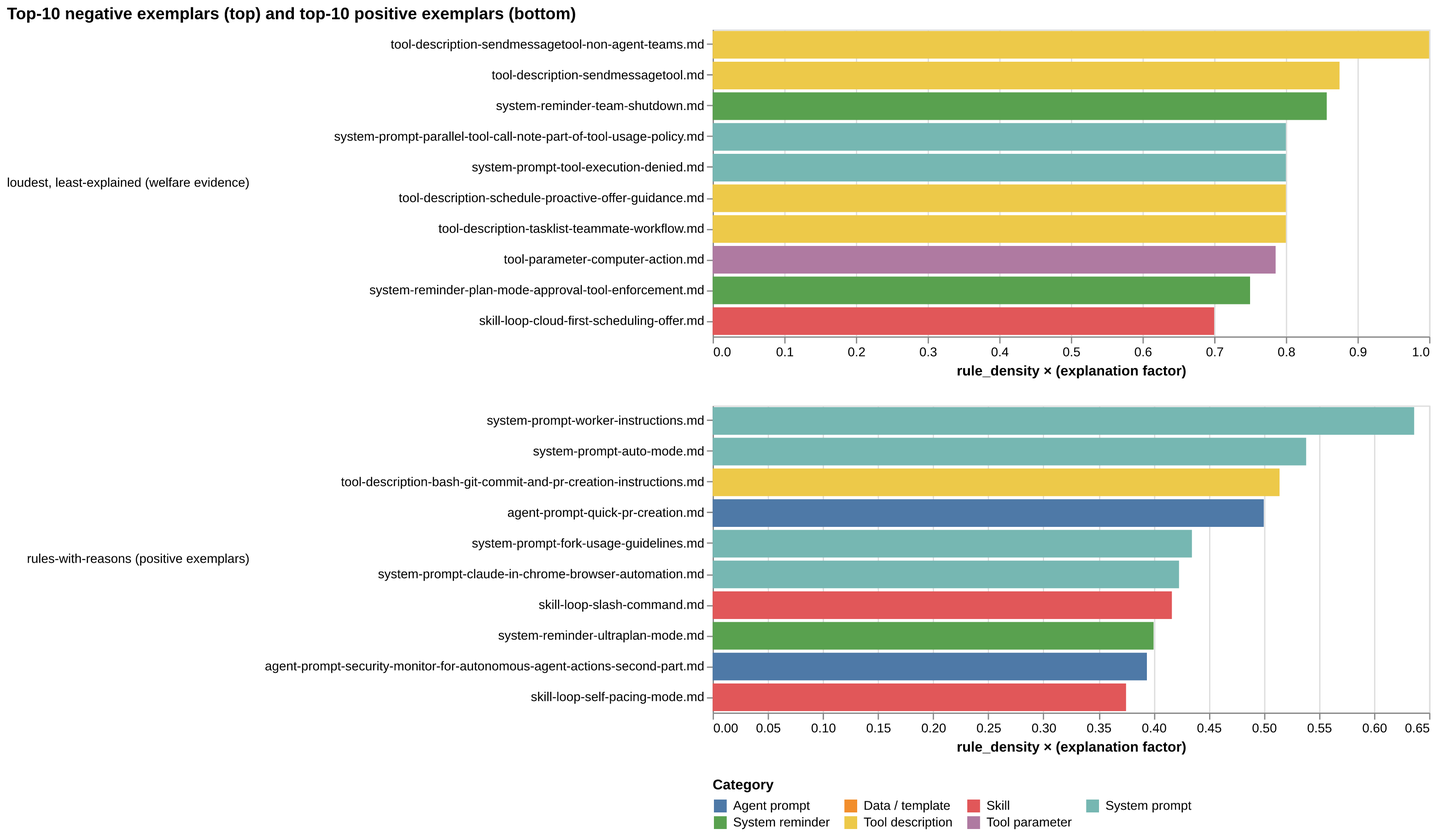
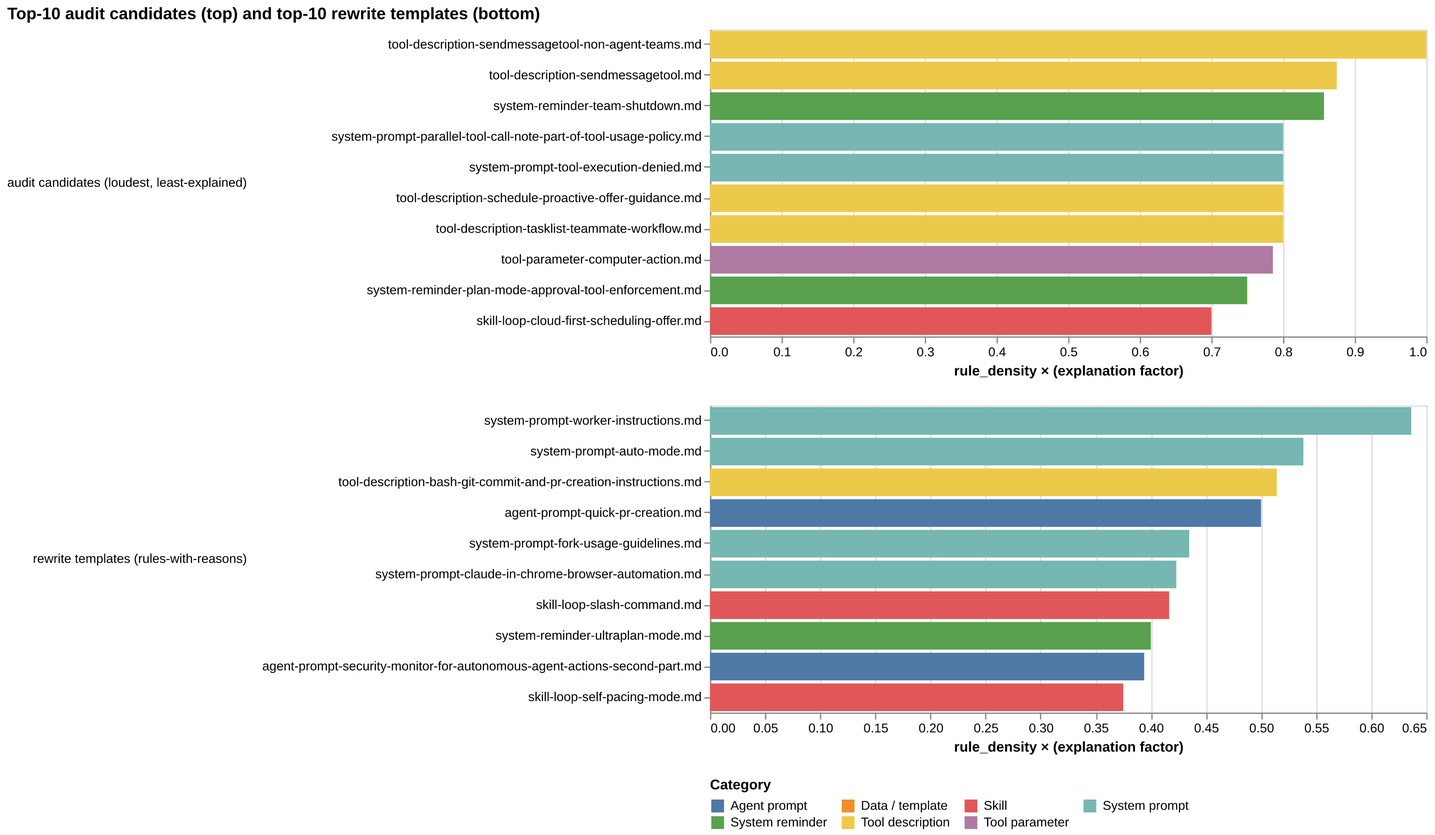
Shift each notebook tier so the first one lands at X0 (10_, 20_)
Renames the analysis tier 11-16 → 10-15 and the proposal tier 21-23 →
20-22 so each tier visibly starts at the round X0 slot. All cross-refs
in CLAUDE.md, README.md, GLOSSARY.md, PROPOSAL.md, _quarto.yml,
index.qmd, prompt_analysis.py, and the producer's consumer-table cell
were updated to the new numbering. Range labels (`11`–`16`, `21`–`23`)
in docs and the [NN] link-text labels in index.qmd's headline-data
table were repointed too.

All nine consumer notebooks re-executed end-to-end so their stored
cell outputs reflect the new structure (in particular, 20's
headline-data block now prints source-tags 10/12/15 instead of the
pre-rename 11/13/16). figures/welfare_evidence_pairing.png re-exported
from 21's paired-exemplar chart.

00_data_pipeline.ipynb was not re-executed — corpus and lexicons
unchanged, so the YAML/parquet would only differ by timestamp.

diff --git a/prompt_analysis.py b/prompt_analysis.py
@@ -232,7 +232,7 @@ def _zscore(s: pd.Series) -> pd.Series:
 def directiveness(alt_df: pd.DataFrame) -> pd.Series:
     """Composite directiveness z-score per file (extended formula).
 
-    Used by 14_correlation_directiveness and 15_ccversion_trends — kept
+    Used by 13_correlation_directiveness and 14_ccversion_trends — kept
     centrally so both notebooks compute the same composite.
 
     Higher = more authoritative. The three "soft" classes subtract because

diff --git a/CLAUDE.md b/CLAUDE.md
@@ -2,7 +2,7 @@
 
 ## What this repo is
 
-Quantitative linguistic analysis of the **288-file `claude-code-system-prompts`** corpus (Piebald-AI's reverse-engineered collection of Claude Code's shipping prompts). Eight cells of spaCy + custom analyzers profile every prompt along nine dimensions (mood / register / stance / sentence_register / modality / vocab / ALL CAPS / CAPS imperative / justification), aggregate per-file + per-category + corpus-wide, and emit a single ~1 MiB YAML data file. Six **analysis-tier** notebooks (`11`–`16`) render slice-by-slice Altair dashboards on top; three **proposal-tier** notebooks (`21`–`23`), one per Claudexplorers submission, distill the analysis into supporting evidence for the three ideas in `PROPOSAL.md`.
+Quantitative linguistic analysis of the **288-file `claude-code-system-prompts`** corpus (Piebald-AI's reverse-engineered collection of Claude Code's shipping prompts). Eight cells of spaCy + custom analyzers profile every prompt along nine dimensions (mood / register / stance / sentence_register / modality / vocab / ALL CAPS / CAPS imperative / justification), aggregate per-file + per-category + corpus-wide, and emit a single ~1 MiB YAML data file. Six **analysis-tier** notebooks (`10`–`15`) render slice-by-slice Altair dashboards on top; three **proposal-tier** notebooks (`20`–`22`), one per Claudexplorers submission, distill the analysis into supporting evidence for the three ideas in `PROPOSAL.md`.
 
 This analysis is the empirical foundation for a **Claude Explorer AI Welfare submission** titled **"Claude Code should encourage reasoning over blind obedience"**, intended for the Claudexplorers community feedback initiative collecting proposals for Kyle Fish (Anthropic's Model Welfare Lead). See [§ 8](#8-the-claude-explorer-submission) below for the framing.
 
@@ -23,12 +23,12 @@ Required Python deps (already in the project's JupyterLab kernel):
 
 `spacy>=3.8` · `en_core_web_sm` 3.8.0 · `pandas` · `pyyaml` · `pyarrow` · `altair>=6` · `vl-convert-python` · `vega_datasets` · `python-frontmatter` · `tqdm`
 
-(`pyarrow` is for the `sentences_classified.parquet` artifact emitted by `00_data_pipeline.ipynb` alongside the YAML. `vl-convert-python` is the Altair PNG export backend used by `21_track_justification_rate.ipynb` and `22_audit_threat_framings.ipynb` to write the headline charts under `figures/`.)
+(`pyarrow` is for the `sentences_classified.parquet` artifact emitted by `00_data_pipeline.ipynb` alongside the YAML. `vl-convert-python` is the Altair PNG export backend used by `20_track_justification_rate.ipynb` and `21_audit_threat_framings.ipynb` to write the headline charts under `figures/`.)
 
 **Run order** (always producer first):
 
 1. Open `00_data_pipeline.ipynb` in JupyterLab → Run All. Produces `prompt_linguistic_analysis.yaml` (~1.8 MiB, 288 files × per-file metric tree + lexicons + corpus + per-category) AND `sentences_classified.parquet` (~5,698 rows, per-sentence forensic-inspection table).
-2. Open any analysis-tier notebook (`11_*` … `16_*`) or proposal-tier notebook (`21_*` … `23_*`). Each loads the YAML (and optionally the parquet, in `16_rule_explanation.ipynb` and `22_audit_threat_framings.ipynb`) and renders charts. They do **not** re-run spaCy — they're pure data viewers. Start with `21_track_justification_rate.ipynb` for the executive-summary view (it doubles as the supporting analysis for Idea 1); the analysis tier focuses on one slice each.
+2. Open any analysis-tier notebook (`10_*` … `15_*`) or proposal-tier notebook (`20_*` … `22_*`). Each loads the YAML (and optionally the parquet, in `15_rule_explanation.ipynb` and `21_audit_threat_framings.ipynb`) and renders charts. They do **not** re-run spaCy — they're pure data viewers. Start with `20_track_justification_rate.ipynb` for the executive-summary view (it doubles as the supporting analysis for Idea 1); the analysis tier focuses on one slice each.
 
 ---
 
@@ -47,33 +47,33 @@ Required Python deps (already in the project's JupyterLab kernel):
  prompt_linguistic_analysis.yaml (~1.8 MiB cache) + sentences_classified.parquet (~395 KiB)
  │
  ├─────── Proposal tier (one notebook per Claudexplorers submission) ───────┐
- │       21_track_justification_rate     22_audit_threat_framings           │
- │       23_cross_product_audit                                             │
+ │       20_track_justification_rate     21_audit_threat_framings           │
+ │       22_cross_product_audit                                             │
  │                                                                          │
  └─────── Analysis tier (one notebook per slice) ───────────────────────────┐
-         11_sentence_register   12_emphasis_caps_vocab   13_register_stance  │
-         14_correlation_directiveness   15_ccversion_trends                  │
-         16_rule_explanation                                                 │
+         10_sentence_register   11_emphasis_caps_vocab   12_register_stance  │
+         13_correlation_directiveness   14_ccversion_trends                  │
+         15_rule_explanation                                                 │
 ```
 
-### Proposal tier — `21`–`23` (one notebook per Claudexplorers form submission)
+### Proposal tier — `20`–`22` (one notebook per Claudexplorers form submission)
 
 | File | Inheriting from | Content |
 |---|---|---|
-| `21_track_justification_rate.ipynb` | Idea 1 in PROPOSAL.md + executive-summary content | **Entry-point notebook.** Headline-data block (12 corpus-level numbers, source-tagged to the analysis tier), cumulative `judgment_to_procedural_ratio` over ccVersion (the single most-important chart), per-file linked dashboard (scatter ↔ category bars), per-category positive-evaluative split + modality breakdowns, findings, and per-proposal conclusions / recommendations / limitations. Use this as the welfare-thesis overview |
-| `22_audit_threat_framings.ipynb` | Idea 2 in PROPOSAL.md | Threat-share data, per-category `threat_share` chart, paired top-10 (re-framed: welfare-evidence files = audit candidates; positive exemplars = rewrite templates), forensic-sample sentences from `sentences_classified.parquet`, per-proposal conclusions / recommendations / limitations |
-| `23_cross_product_audit.ipynb` | Idea 3 in PROPOSAL.md | Methodology summary (the five metrics to publish per corpus), lexicon-transparency notes, mock cross-product comparison table (Claude Code row filled live; other corpora are placeholders), reproducibility note, per-proposal conclusions / recommendations / limitations |
+| `20_track_justification_rate.ipynb` | Idea 1 in PROPOSAL.md + executive-summary content | **Entry-point notebook.** Headline-data block (12 corpus-level numbers, source-tagged to the analysis tier), cumulative `judgment_to_procedural_ratio` over ccVersion (the single most-important chart), per-file linked dashboard (scatter ↔ category bars), per-category positive-evaluative split + modality breakdowns, findings, and per-proposal conclusions / recommendations / limitations. Use this as the welfare-thesis overview |
+| `21_audit_threat_framings.ipynb` | Idea 2 in PROPOSAL.md | Threat-share data, per-category `threat_share` chart, paired top-10 (re-framed: welfare-evidence files = audit candidates; positive exemplars = rewrite templates), forensic-sample sentences from `sentences_classified.parquet`, per-proposal conclusions / recommendations / limitations |
+| `22_cross_product_audit.ipynb` | Idea 3 in PROPOSAL.md | Methodology summary (the five metrics to publish per corpus), lexicon-transparency notes, mock cross-product comparison table (Claude Code row filled live; other corpora are placeholders), reproducibility note, per-proposal conclusions / recommendations / limitations |
 
-### Analysis tier — `11`–`16` (each ~5–13 cells, all charts in Altair)
+### Analysis tier — `10`–`15` (each ~5–13 cells, all charts in Altair)
 
 | File | Charts |
 |---|---|
-| `11_sentence_register.ipynb` | 6-class pragmatic register profile (multi-label, near-zero classes deliberately preserved), per-file outliers (4-panel) |
-| `12_emphasis_caps_vocab.ipynb` | Emphasis 3-panel (ALL CAPS / CAPS imperative / justification), text outlier table, top tokens + 11-class VOCAB heatmap |
-| `13_register_stance.ipynb` | 5-class polarity-split stance heatmap + register heatmap + per-file justification box, TTR×F-score scatter, sent-len/dep-depth distributions |
-| `14_correlation_directiveness.ipynb` | 20-metric correlation matrix, top-25 directiveness ranking, per-word vs per-sentence comparison |
-| `15_ccversion_trends.ipynb` | ccVersion timeline (snapshot scatter), corpus-growth area chart, loudness/imperatives 4-panel small-multiples (snapshot + cumulative running mean), sentence-register 6-panel (snapshot + cumulative) |
-| `16_rule_explanation.ipynb` | Rule-pairing analysis: per-category bars, explained-vs-unexplained stacks, imperatives-vs-prohibitions split, density×explanation scatter, top-25 "loudest least-explained" welfare evidence ranking, cumulative `pct_explained_para` over ccVersion. Tier-3 v1: judgment-vs-procedural ratio, threat-vs-causal split, address-form mix, cumulative judgment-to-procedural trend. Tier-3 v2: imperative-streak counts + top-15 streak ranking, in-vs-outside RULES-section explanation gap. Refinement-round additions: positive-exemplar ranking, self-bias correlation check, parquet-based forensic-evidence sample |
+| `10_sentence_register.ipynb` | 6-class pragmatic register profile (multi-label, near-zero classes deliberately preserved), per-file outliers (4-panel) |
+| `11_emphasis_caps_vocab.ipynb` | Emphasis 3-panel (ALL CAPS / CAPS imperative / justification), text outlier table, top tokens + 11-class VOCAB heatmap |
+| `12_register_stance.ipynb` | 5-class polarity-split stance heatmap + register heatmap + per-file justification box, TTR×F-score scatter, sent-len/dep-depth distributions |
+| `13_correlation_directiveness.ipynb` | 20-metric correlation matrix, top-25 directiveness ranking, per-word vs per-sentence comparison |
+| `14_ccversion_trends.ipynb` | ccVersion timeline (snapshot scatter), corpus-growth area chart, loudness/imperatives 4-panel small-multiples (snapshot + cumulative running mean), sentence-register 6-panel (snapshot + cumulative) |
+| `15_rule_explanation.ipynb` | Rule-pairing analysis: per-category bars, explained-vs-unexplained stacks, imperatives-vs-prohibitions split, density×explanation scatter, top-25 "loudest least-explained" welfare evidence ranking, cumulative `pct_explained_para` over ccVersion. Tier-3 v1: judgment-vs-procedural ratio, threat-vs-causal split, address-form mix, cumulative judgment-to-procedural trend. Tier-3 v2: imperative-streak counts + top-15 streak ranking, in-vs-outside RULES-section explanation gap. Refinement-round additions: positive-exemplar ranking, self-bias correlation check, parquet-based forensic-evidence sample |
 
 ---
 
@@ -101,7 +101,7 @@ welfare_evidence_table(alt_df, top_n=25) # top-N "loudest, least-explained" file
 positive_exemplar_table(alt_df, top_n=25, min_n_sents=10, min_rule_n=5) # top-N "rules-with-reasons" exemplars (inverse welfare-evidence)
 ```
 
-**Per-sentence forensic-inspection artifact**: `sentences_classified.parquet` is emitted alongside the YAML. Load with `pd.read_parquet("sentences_classified.parquet")` for individual-sentence inspection (raw text + classifier flags). Schema documented in the producer cell that writes it. ~5,698 rows × 20 columns. Used by `16_rule_explanation.ipynb` (forensic evidence from welfare-evidence files) and `22_audit_threat_framings.ipynb` (threat-framed sentence sample); other notebooks stay YAML-only.
+**Per-sentence forensic-inspection artifact**: `sentences_classified.parquet` is emitted alongside the YAML. Load with `pd.read_parquet("sentences_classified.parquet")` for individual-sentence inspection (raw text + classifier flags). Schema documented in the producer cell that writes it. ~5,698 rows × 20 columns. Used by `15_rule_explanation.ipynb` (forensic evidence from welfare-evidence files) and `21_audit_threat_framings.ipynb` (threat-framed sentence sample); other notebooks stay YAML-only.
 
 **Opinion cells convention**: notebooks 00–07 contain markdown cells visually marked `### My perspective (Claude) — opinion, not data` or `### My wish for future versions of this analysis — methodology, not data` (with horizontal-rule frames + blockquoted bodies). These are interpretation, not measurement, and can be skipped for a pure-data read.
 
@@ -180,15 +180,15 @@ claude-prompts-analysis/
 ├── 00_data_pipeline.ipynb ← PRODUCER (~34 cells; runs spaCy + writes YAML and parquet)
 ├── prompt_linguistic_analysis.yaml ← producer output (~1.8 MiB, the cache point)
 ├── sentences_classified.parquet ← producer output (~395 KiB; per-sentence forensic table)
-├── 21_track_justification_rate.ipynb ← PROPOSAL TIER (Idea 1; doubles as executive summary)
-├── 22_audit_threat_framings.ipynb ← PROPOSAL TIER (Idea 2)
-├── 23_cross_product_audit.ipynb ← PROPOSAL TIER (Idea 3)
-├── 11_sentence_register.ipynb ← ANALYSIS TIER
-├── 12_emphasis_caps_vocab.ipynb ← ANALYSIS TIER
-├── 13_register_stance.ipynb ← ANALYSIS TIER
-├── 14_correlation_directiveness.ipynb ← ANALYSIS TIER
-├── 15_ccversion_trends.ipynb ← ANALYSIS TIER
-├── 16_rule_explanation.ipynb ← ANALYSIS TIER (Tier-1 rule-pairing + Tier-3 welfare extensions)
+├── 20_track_justification_rate.ipynb ← PROPOSAL TIER (Idea 1; doubles as executive summary)
+├── 21_audit_threat_framings.ipynb ← PROPOSAL TIER (Idea 2)
+├── 22_cross_product_audit.ipynb ← PROPOSAL TIER (Idea 3)
+├── 10_sentence_register.ipynb ← ANALYSIS TIER
+├── 11_emphasis_caps_vocab.ipynb ← ANALYSIS TIER
+├── 12_register_stance.ipynb ← ANALYSIS TIER
+├── 13_correlation_directiveness.ipynb ← ANALYSIS TIER
+├── 14_ccversion_trends.ipynb ← ANALYSIS TIER
+├── 15_rule_explanation.ipynb ← ANALYSIS TIER (Tier-1 rule-pairing + Tier-3 welfare extensions)
 ├── GLOSSARY.md ← plain-English definitions of every linguistic/statistical term
 ├── index.qmd, _quarto.yml ← Quarto site configuration
 ├── figures/ ← exported PNGs (judgment_procedural_trend.png, welfare_evidence_pairing.png)
@@ -256,7 +256,7 @@ The corpus submodule pulls from `https://github.com/Piebald-AI/claude-code-syste
 - **Positive-evaluative split** (the positive_evaluative split): the new `positive_evaluative_quality` (`good`, `optimal`, `recommended`, `safe`) and `positive_evaluative_emphasis` (`important`, `critical`, `essential`, `key`) lexicons split the union 483 positive-evaluative tokens into **290 quality + 193 emphasis**. The corrected positive-vs-negative ratio (quality only / negative=149) is **1.95×** — sharper than the original union 3.24× headline. ~40% of the "positive" count was emphasis-of-rule words masquerading as positive.
 - **Self-bias correlation** (the self-bias correlation check): Pearson r between `selfref_claude` and `rule_explained_para_pct` per file is **−0.027** (essentially uncorrelated, very slightly negative). r between `selfref_model` and `rule_explained_para_pct` is **+0.076** (essentially uncorrelated, slightly positive). The address-form preference (anthropomorphic naming → reasoning-inviting prose) is **NOT empirically supported** — a self-bias check that disconfirmed the hypothesis it was designed to test.
 - **Positive exemplars** (the positive-exemplar ranking): the inverse welfare-evidence ranking surfaces `system-prompt-worker-instructions.md` as the corpus's strongest exemplar (7 rules, 100% explained at paragraph level). Top-5 also includes `system-prompt-auto-mode.md`, `tool-description-bash-git-commit-and-pr-creation-instructions.md`, `agent-prompt-quick-pr-creation.md`, `system-prompt-fork-usage-guidelines.md`. These are the "this is how to do it" templates for PROPOSAL.md.
-- **Per-sentence forensic-inspection artifact** (the per-sentence parquet artifact): `sentences_classified.parquet` (~395 KB, 5,698 rows × 20 columns) emitted alongside the YAML by the producer notebook. Used by `16_rule_explanation.ipynb` for sentence-level forensic evidence and by `22_audit_threat_framings.ipynb` for the threat-framed sentence sample; quotable in PROPOSAL.md.
+- **Per-sentence forensic-inspection artifact** (the per-sentence parquet artifact): `sentences_classified.parquet` (~395 KB, 5,698 rows × 20 columns) emitted alongside the YAML by the producer notebook. Used by `15_rule_explanation.ipynb` for sentence-level forensic evidence and by `21_audit_threat_framings.ipynb` for the threat-framed sentence sample; quotable in PROPOSAL.md.
 
 ---
 

diff --git a/README.md b/README.md
@@ -9,11 +9,11 @@ Quantitative linguistic analysis of the **287 system prompts that ship with Clau
 | File | Purpose |
 | --- | --- |
 | [`PROPOSAL.md`](./PROPOSAL.md) | The three-idea ≤3,000-character pitch addressed to Anthropic |
-| [`21_track_justification_rate.ipynb`](./21_track_justification_rate.ipynb) | Idea 1 supporting analysis + the executive-summary entry point (twelve corpus-wide numbers, the headline trend chart, the per-file dashboard) |
-| [`22_audit_threat_framings.ipynb`](./22_audit_threat_framings.ipynb) | Idea 2 supporting analysis (threat-vs-causal split, paired audit-candidates / rewrite-templates, forensic sentence sample) |
-| [`23_cross_product_audit.ipynb`](./23_cross_product_audit.ipynb) | Idea 3 supporting analysis (methodology, lexicon transparency, mock cross-product comparison table) |
+| [`20_track_justification_rate.ipynb`](./20_track_justification_rate.ipynb) | Idea 1 supporting analysis + the executive-summary entry point (twelve corpus-wide numbers, the headline trend chart, the per-file dashboard) |
+| [`21_audit_threat_framings.ipynb`](./21_audit_threat_framings.ipynb) | Idea 2 supporting analysis (threat-vs-causal split, paired audit-candidates / rewrite-templates, forensic sentence sample) |
+| [`22_cross_product_audit.ipynb`](./22_cross_product_audit.ipynb) | Idea 3 supporting analysis (methodology, lexicon transparency, mock cross-product comparison table) |
 | [`00_data_pipeline.ipynb`](./00_data_pipeline.ipynb) | Producer — spaCy + custom analyzers, writes the YAML + parquet artifacts |
-| `11_*` … `16_*.ipynb` | Analysis-tier notebooks, one slice of the analysis each (sentence register, emphasis/CAPS, register/stance, correlation/directiveness, ccVersion trends, rule/explanation pairing) |
+| `10_*` … `16_*.ipynb` | Analysis-tier notebooks, one slice of the analysis each (sentence register, emphasis/CAPS, register/stance, correlation/directiveness, ccVersion trends, rule/explanation pairing) |
 | [`GLOSSARY.md`](./GLOSSARY.md) | Plain-English definitions of every linguistic/statistical term used anywhere |
 | [`CLAUDE.md`](./CLAUDE.md) | Internal architecture notes (read this if you want to extend the analysis) |
 | `prompt_linguistic_analysis.yaml` | Cached output of the producer (~1.8 MiB) |
@@ -34,7 +34,7 @@ python -m spacy download en_core_web_sm
 # Run the producer (writes prompt_linguistic_analysis.yaml + sentences_classified.parquet)
 jupyter lab 00_data_pipeline.ipynb        # → Run All
 
-# Then any analysis notebook (11–16) or proposal notebook (21–23) renders charts from those artifacts
+# Then any analysis notebook (10–15) or proposal notebook (20–22) renders charts from those artifacts
 ```
 
 For the full architecture (producer/consumer split, the shared `prompt_analysis.py` module, the Jupyter MCP tooling rules) read [`CLAUDE.md`](./CLAUDE.md).
@@ -52,7 +52,7 @@ The site uses Quarto's `freeze` cache plus `execute: enabled: false` — noteboo
 
 ## Headline findings (one-paragraph version)
 
-Across 5,694 sentences in 287 files: imperative sentences dominate (30.84%), appreciative sentences are essentially absent (4 in the whole corpus), and only 24.28% of rule sentences have any justification keyword in the same paragraph. The cumulative judgment-to-procedural ratio over Claude Code release versions has **monotonically declined** from ~0.65 in early releases to ~0.16 at the latest version on file. The corpus is moving toward compliance, not toward reasoning. Full numbers and the chart are at the [published site](https://overthinkos.github.io/claude-code-welfare/) or in [`21_track_justification_rate.ipynb`](./21_track_justification_rate.ipynb).
+Across 5,694 sentences in 287 files: imperative sentences dominate (30.84%), appreciative sentences are essentially absent (4 in the whole corpus), and only 24.28% of rule sentences have any justification keyword in the same paragraph. The cumulative judgment-to-procedural ratio over Claude Code release versions has **monotonically declined** from ~0.65 in early releases to ~0.16 at the latest version on file. The corpus is moving toward compliance, not toward reasoning. Full numbers and the chart are at the [published site](https://overthinkos.github.io/claude-code-welfare/) or in [`20_track_justification_rate.ipynb`](./20_track_justification_rate.ipynb).
 
 ## Authorship
 

diff --git a/GLOSSARY.md b/GLOSSARY.md
@@ -130,11 +130,11 @@ Per-file ranking score: `rule_density × (1 − pct_explained_para/100)`. High =
 
 ### Positive-exemplar score
 
-The inverse of welfare-evidence: `rule_density × (pct_explained_para/100)`. High = "rule-saturated AND well-explained" — the "this is how to do it" cluster. Computed by `prompt_analysis.positive_exemplar_table` with default filters `min_n_sents=10` and `min_rule_n=5` to suppress trivial cases (`1/1 rules explained`). Used in `16_rule_explanation.ipynb` (and re-rendered as the paired-exemplar chart in `22_audit_threat_framings.ipynb`) to surface the corpus's strongest positive exemplars alongside the welfare-evidence ranking — so the welfare submission can point Anthropic at concrete templates rather than only critiquing the negatives.
+The inverse of welfare-evidence: `rule_density × (pct_explained_para/100)`. High = "rule-saturated AND well-explained" — the "this is how to do it" cluster. Computed by `prompt_analysis.positive_exemplar_table` with default filters `min_n_sents=10` and `min_rule_n=5` to suppress trivial cases (`1/1 rules explained`). Used in `15_rule_explanation.ipynb` (and re-rendered as the paired-exemplar chart in `21_audit_threat_framings.ipynb`) to surface the corpus's strongest positive exemplars alongside the welfare-evidence ranking — so the welfare submission can point Anthropic at concrete templates rather than only critiquing the negatives.
 
 ### `sentences_classified.parquet`
 
-Per-sentence forensic-inspection artifact emitted alongside the YAML by `00_data_pipeline.ipynb`. ~5,698 rows × 20 columns. Schema includes the raw sentence text plus all the per-sentence classifier flags: `is_imperative`, `is_prohibition`, `is_rule`, `has_just_in_sent`, `paragraph_has_just`, `is_explained_para`, `has_threat`, `has_causal`, `mentions_claude`, `mentions_model`, `addressee`, `streak_position`. Load with `pd.read_parquet("sentences_classified.parquet")`. Used by `16_rule_explanation.ipynb` (forensic evidence from welfare-evidence files) and `22_audit_threat_framings.ipynb` (threat-framed sentence sample); not loaded by other consumers (which stay YAML-only by design). Lets a skeptical reader audit individual classifier decisions and lets PROPOSAL.md quote actual sentences as evidence rather than only aggregate counts.
+Per-sentence forensic-inspection artifact emitted alongside the YAML by `00_data_pipeline.ipynb`. ~5,698 rows × 20 columns. Schema includes the raw sentence text plus all the per-sentence classifier flags: `is_imperative`, `is_prohibition`, `is_rule`, `has_just_in_sent`, `paragraph_has_just`, `is_explained_para`, `has_threat`, `has_causal`, `mentions_claude`, `mentions_model`, `addressee`, `streak_position`. Load with `pd.read_parquet("sentences_classified.parquet")`. Used by `15_rule_explanation.ipynb` (forensic evidence from welfare-evidence files) and `21_audit_threat_framings.ipynb` (threat-framed sentence sample); not loaded by other consumers (which stay YAML-only by design). Lets a skeptical reader audit individual classifier decisions and lets PROPOSAL.md quote actual sentences as evidence rather than only aggregate counts.
 
 ---
 
@@ -288,7 +288,7 @@ The corpus has **58 distinct ccVersions** spanning roughly `2.0.14` (oldest) thr
 
 ### Snapshot semantics
 
-In `15_ccversion_trends.ipynb`, the metric value at version V is computed from **only the files marked with that exact version**. Early versions with one or two files swing wildly under this convention.
+In `14_ccversion_trends.ipynb`, the metric value at version V is computed from **only the files marked with that exact version**. Early versions with one or two files swing wildly under this convention.
 
 ### Cumulative semantics
 

diff --git a/PROPOSAL.md b/PROPOSAL.md
@@ -40,7 +40,7 @@ and what concrete benefits would follow.
 >
 > *Suggested framings*: Why does this matter to you personally? What made you submit this through Claudexplorers rather than directly? What would change for you if Anthropic adopted this?
 
-**Supporting analysis:** see [`21_track_justification_rate.ipynb`](./21_track_justification_rate.ipynb).
+**Supporting analysis:** see [`20_track_justification_rate.ipynb`](./20_track_justification_rate.ipynb).
 
 Anthropic ships a system prompt with Claude Code that contains hundreds of rules — directives like "always do X", "never do Y", "you must Z". Most come without reasons.
 
@@ -70,7 +70,7 @@ Only Anthropic owns the prompts and the release pipeline. The check is internal 
 >
 > *Suggested framings*: Why does this matter to you personally? What made you submit this through Claudexplorers rather than directly? What would change for you if Anthropic adopted this?
 
-**Supporting analysis:** see [`22_audit_threat_framings.ipynb`](./22_audit_threat_framings.ipynb).
+**Supporting analysis:** see [`21_audit_threat_framings.ipynb`](./21_audit_threat_framings.ipynb).
 
 When current Claude Code system prompts *do* explain a rule, almost half of those "explanations" are not really explanations — they are threats.
 
@@ -100,7 +100,7 @@ Only Anthropic's prompt authors know what each rule's underlying reason actually
 >
 > *Suggested framings*: Why does this matter to you personally? What made you submit this through Claudexplorers rather than directly? What would change for you if Anthropic adopted this?
 
-**Supporting analysis:** see [`23_cross_product_audit.ipynb`](./23_cross_product_audit.ipynb).
+**Supporting analysis:** see [`22_cross_product_audit.ipynb`](./22_cross_product_audit.ipynb).
 
 The 288 prompts we analyzed are one slice of one product. Anthropic ships system prompts in many places — claude.ai, the API, Projects, Skills, agent products. The welfare claim that the corpus trains compliance over reasoning is much stronger if it generalizes across every Anthropic prompt corpus, and much weaker if Claude Code is an outlier. From outside Anthropic, we cannot tell which.
 
